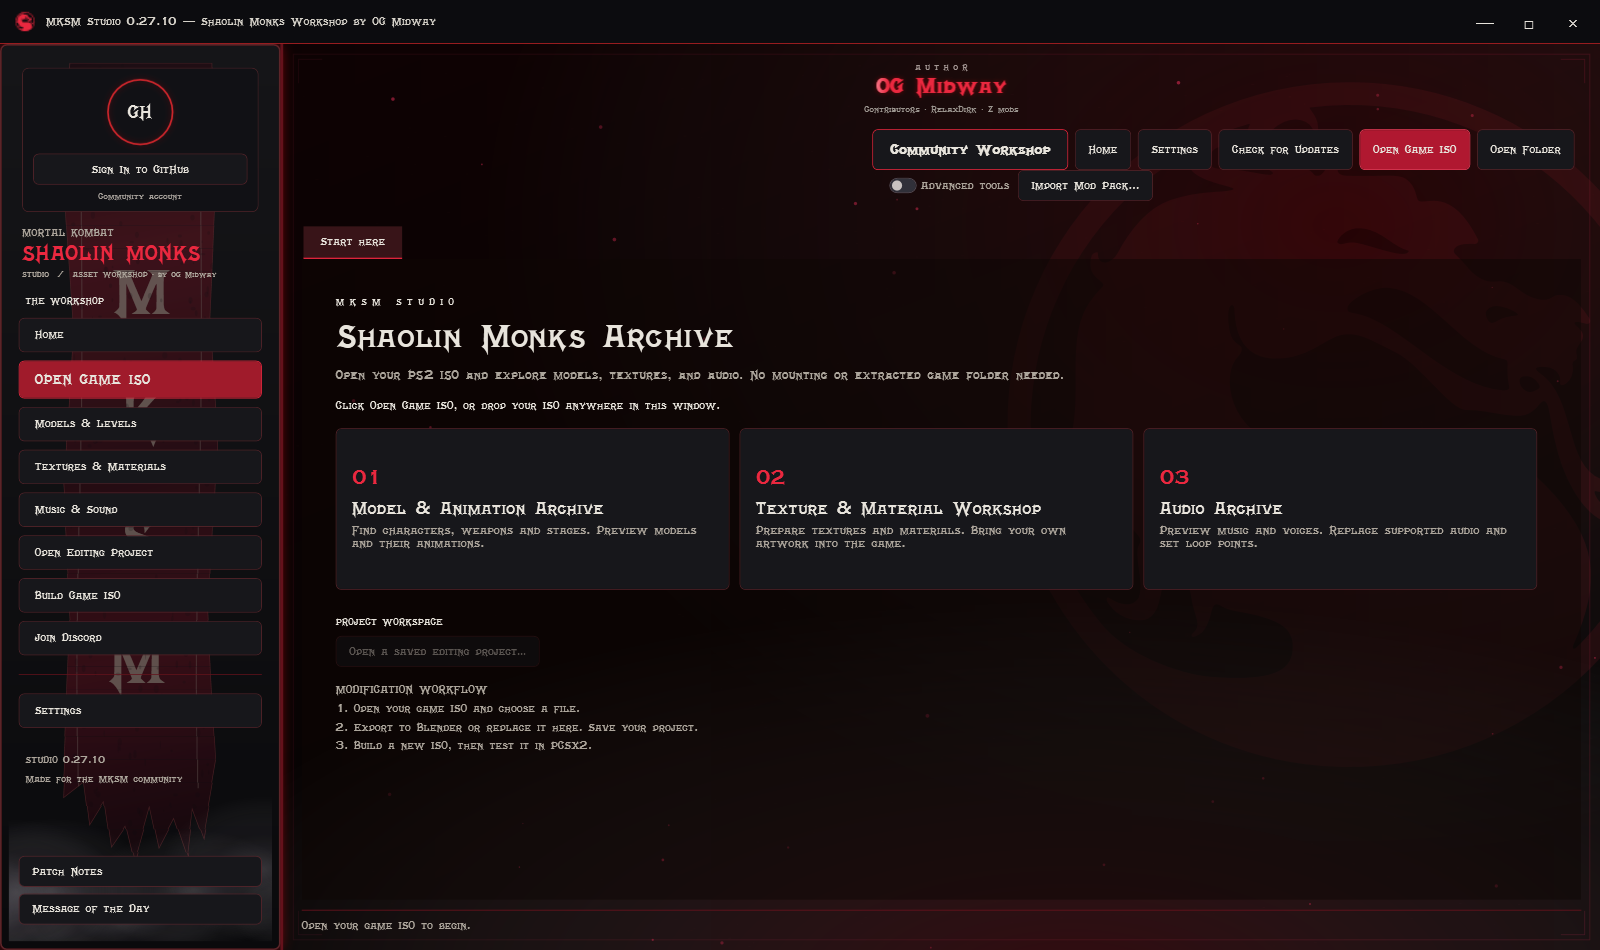
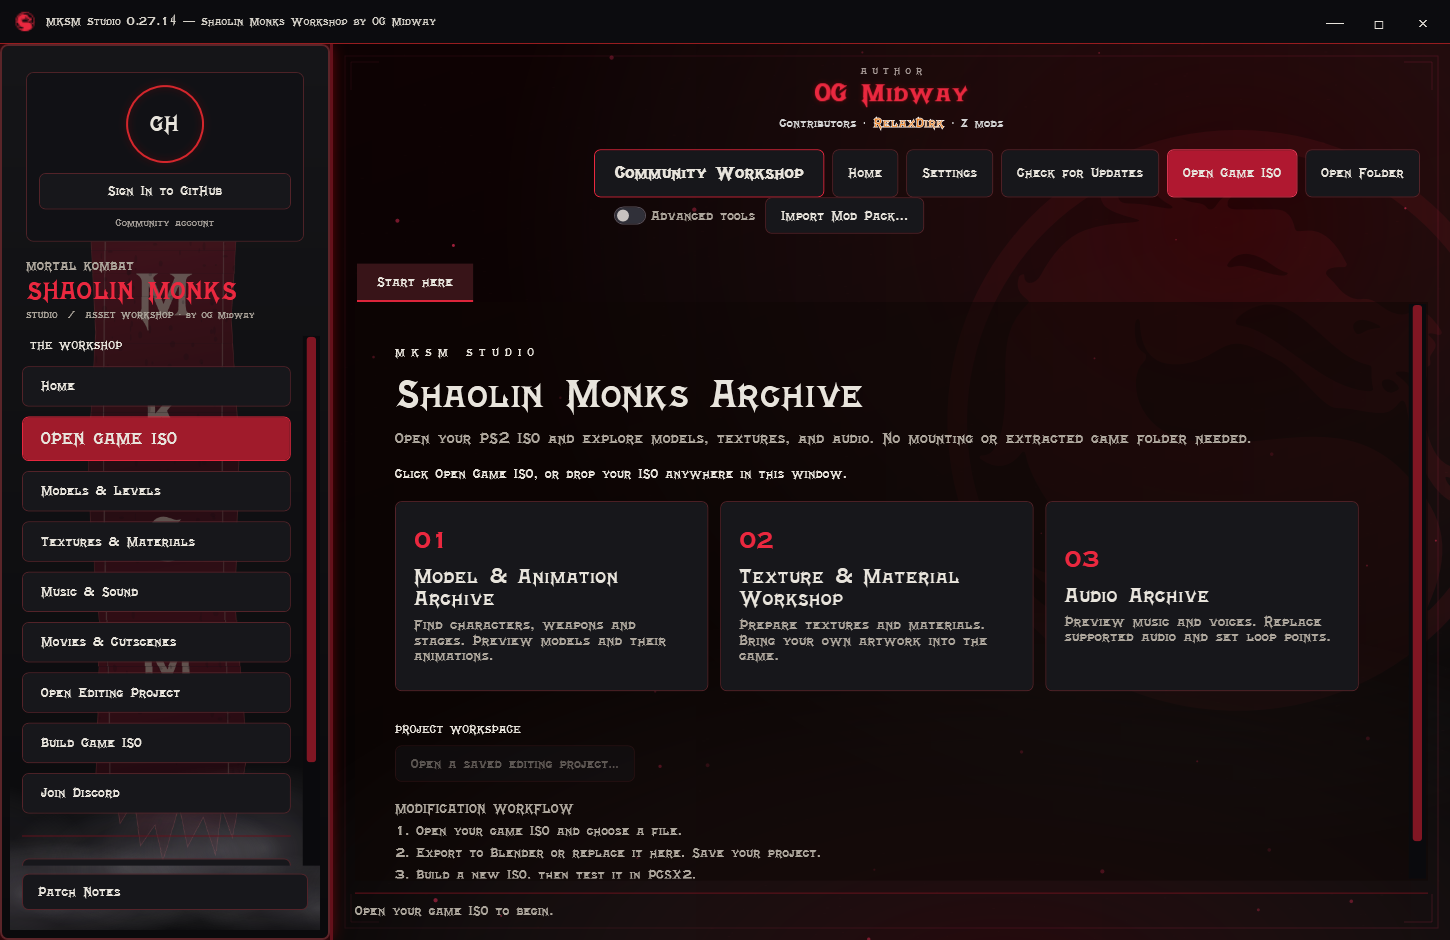
Prepare Studio 0.27.14 workshop stability and faster announcements

Changed region(s): [[0.0, 0.0, 1.0, 1.0], [0.4034, 0.0617, 0.9931, 0.2468], [0.8379, 0.3085, 0.9, 0.3394]]

diff --git a/docs/SETTINGS.md b/docs/SETTINGS.md
@@ -1,3 +1,11 @@
+## Studio 0.27.14
+
+- Fixed blank Workshop cards after resizing, scrolling and refreshing. Divider dragging previews the new width; cards reflow when released. The model camera stays steady.
+- Workshop checks for new listings in the background after opening it: every 30 seconds signed in, every 2 minutes as a guest. Failed requests retain the library and back off. Selection, scroll anchor and unchanged previews survive refresh. Download totals refresh separately every 5 minutes, or on manual Refresh.
+- Announcements check at startup, on returning to the app and every 10 seconds. Publishing updates the publisher's view immediately. GitHub caching and network conditions can still delay other clients; older Studio versions retain their old intervals. Messages remain once-per-publication and can be reopened.
+- Background SFD/movie is off by default, including a one-time reset of the old default. The dragon and particles remain. Enable video in Settings if desired. Disabled media releases its decoder; muted menu music is not opened.
+- Character replacement adds **Original head / hat / attachments…**. Explicitly hide unwanted original rigid parts while retaining skeleton and skinned surfaces. Selection persists in GLB/package exports and can be changed. Review the preview and test in game; this does not claim to fix every head texture or unsupported attachment.
+
 # Settings and the new home screen
 
 [Home](../README.md) · [Updates](UPDATES_AND_HELP.md)
@@ -20,7 +28,7 @@
 
 ## Opening movie
 
-The converted opening movie is included and starts automatically on a fresh launch. A missing previous movie path falls back to that bundled default. You can still prepare `Front/Movies/opening.sfd` from your own game folder or ISO. Conversion uses a local FFmpeg executable and runs outside the UI thread. If FFmpeg is missing, use **Choose FFmpeg converter**, then **Choose background movie** and select the SFD. You can also choose an MP4 or WMV directly. [FFmpeg's official download page](https://ffmpeg.org/download.html) links Windows builds. FFmpeg is a separate optional dependency, not included in Studio's EXE or updater.
+The converted opening movie is included but disabled by default. Enable background video explicitly to play it. A missing previous movie path falls back to that bundled default. You can still prepare `Front/Movies/opening.sfd` from your own game folder or ISO. Conversion uses a local FFmpeg executable and runs outside the UI thread. If FFmpeg is missing, use **Choose FFmpeg converter**, then **Choose background movie** and select the SFD. You can also choose an MP4 or WMV directly. [FFmpeg's official download page](https://ffmpeg.org/download.html) links Windows builds. FFmpeg is a separate optional dependency, not included in Studio's EXE or updater.
 
 Converted video is cached locally. The original game file stays unchanged. Choose **Opening movie audio** to hear its soundtrack, including with the video picture disabled. Only one background audio source plays at a time. Playback depends on Windows media support; if video cannot play, the dragon background remains usable.
 

diff --git a/docs/COMMUNITY_WORKSHOP.md b/docs/COMMUNITY_WORKSHOP.md
@@ -1,3 +1,11 @@
+## Studio 0.27.14
+
+- Fixed blank Workshop cards after resizing, scrolling and refreshing. Divider dragging previews the new width; cards reflow when released. The model camera stays steady.
+- Workshop checks for new listings in the background after opening it: every 30 seconds signed in, every 2 minutes as a guest. Failed requests retain the library and back off. Selection, scroll anchor and unchanged previews survive refresh. Download totals refresh separately every 5 minutes, or on manual Refresh.
+- Announcements check at startup, on returning to the app and every 10 seconds. Publishing updates the publisher's view immediately. GitHub caching and network conditions can still delay other clients; older Studio versions retain their old intervals. Messages remain once-per-publication and can be reopened.
+- Background SFD/movie is off by default, including a one-time reset of the old default. The dragon and particles remain. Enable video in Settings if desired. Disabled media releases its decoder; muted menu music is not opened.
+- Character replacement adds **Original head / hat / attachments…**. Explicitly hide unwanted original rigid parts while retaining skeleton and skinned surfaces. Selection persists in GLB/package exports and can be changed. Review the preview and test in game; this does not claim to fix every head texture or unsupported attachment.
+
 # Community Workshop
 
 [Home](../README.md) · [Characters](CHARACTER_START_HERE.md)
@@ -59,7 +67,7 @@ Use **Create / Upload Mod Pack** to share several mapped replacements. With your
 
 In the private source build, OG Midway's verified owner account can use **Publish Announcement** in the sidebar. Choose Message of the Day or Patch Notes, type a title and message, preview it, then **Publish to All Builds**. Other accounts cannot publish. The public build has no publisher control.
 
-New messages display once on the next launch, or within two minutes while the app is active and no editing dialog is open. Close the message after reading; its ID is saved. The sidebar button remains available to review it. Offline checks never block editing. A newer publication replaces the current announcement and gets a new notification ID.
+New messages display once on the next launch, or normally within 10 seconds (network and GitHub caching can delay delivery) while the app is active and no editing dialog is open. Close the message after reading; its ID is saved. The sidebar button remains available to review it. Offline checks never block editing. A newer publication replaces the current announcement and gets a new notification ID.
 
 Use arrow keys to scroll message text, Enter or Space on Continue to dismiss, and Esc to go back. Settings uses Tab/Shift+Tab to move, Space to activate the focused control, and Enter to save.
 

diff --git a/README.md b/README.md
@@ -34,7 +34,9 @@ You do not need to mount or unpack the ISO to begin. You do need your own game f
 
 This is an independent, experimental modding tool. The best-tested workflows use the researched **USA PS2 revision**. Support for one resource or revision does not establish support for every version of the game.
 
-## 2. Current release: 0.27.13
+## 2. Current release: 0.27.14
+
+**Workshop stability and faster announcements.** Background listing checks retain your selection and preview; divider resizing no longer continually resets the model camera. [Patch notes](CHANGELOG.md) · [Windows, handheld and experimental Winlator options](docs/PLATFORMS.md).
 
 **New: saved-project Workshop sharing and experimental native-size SFD movie import.** Open Movies & Cutscenes, export the original movie, check an already-created replacement SFD, then stage/save/build it. FFmpeg and ffprobe are required for import checks. Native game playback remains unverified. [Movie guide](docs/MOVIES.md).
 
@@ -42,7 +44,7 @@ Clean red-and-black interface, integrated title bar, GitHub avatar, refreshed Wo
 
 **Community Workshop:** opens inside the main Studio workspace. Use Home to return to the start page; returning to Workshop preserves search, sorting, selection and scroll position. Browse character replacements, download their files, follow updates for version comparisons on refresh, and publish your own native character packages through GitHub. Creator uploads appear without an approval queue. OGmidway's authenticated owner account can remove any listing; other creators manage only their own. [Workshop guide](docs/COMMUNITY_WORKSHOP.md).
 
-**Opening movie included:** the converted opening movie is bundled and starts on first launch. The default movie needs no ISO extraction or FFmpeg. Saved off/volume choices are preserved; selecting another movie previews it immediately.
+**Background movie is off by default:** the dragon and particles remain visible. Version 0.27.14 turns the previous video default off once; you can enable it again in Settings. Disabled video releases its decoder. The optional bundled movie needs no ISO extraction or FFmpeg.
 
 **An archive-focused MKSM interface:** aged-metal frames, bundled MK4 title lettering, responsive archive cards and automatic scaling on large windows. Home is available from the left navigation and the library. Instructions and file details keep a readable standard font.
 

diff --git a/CHANGELOG.md b/CHANGELOG.md
@@ -1,3 +1,17 @@
+# MKSM Studio 0.27.14 — Workshop stability and faster announcements
+
+- Fixed blank Workshop cards after resizing, scrolling and refreshing. Divider dragging previews the new width; cards reflow when released. The model camera stays steady.
+- Workshop checks for new listings in the background after opening it: every 30 seconds signed in, every 2 minutes as a guest. Failed requests retain the library and back off. Selection, scroll anchor and unchanged previews survive refresh. Download totals refresh separately every 5 minutes, or on manual Refresh.
+- Announcements check at startup, on returning to the app and every 10 seconds. Publishing updates the publisher's view immediately. GitHub caching and network conditions can still delay other clients; older Studio versions retain their old intervals. Messages remain once-per-publication and can be reopened.
+- Background SFD/movie is off by default, including a one-time reset of the old default. The dragon and particles remain. Enable video in Settings if desired. Disabled media releases its decoder; muted menu music is not opened.
+- Character replacement adds **Original head / hat / attachments…**. Explicitly hide unwanted original rigid parts while retaining skeleton and skinned surfaces. Selection persists in GLB/package exports and can be changed. Review the preview and test in game; this does not claim to fix every head texture or unsupported attachment.
+- Separate experimental extracted Windows x64 package and low-power/software-rendering launchers for portable/Winlator testing. Windows handhelds use the Windows build. No native Android build; Winlator/ARM compatibility and performance are unverified.
+- Public and private-source updates retain separate signed channels. Blender bridge is unchanged.
+
+Validation: both builds compile; 140 resize/refresh cycles with 2,000 listings; shrinking/empty lists; unchanged preview retention; mocked live polling, no overlapping fetch, offline retention/backoff; native Scorpion attachment suppression/restoration, skeleton preservation and saved-package roundtrip; media defaults and explicit opt-in. No new in-game compatibility claim.
+
+---
+
 # MKSM Studio 0.27.13 — Experimental SFD Movie Import
 
 - **Movies & Cutscenes:** inventory and export the original SFD movies directly from your ISO.

diff --git a/docs/PLATFORMS.md b/docs/PLATFORMS.md
@@ -1,0 +1,15 @@
+# Choose your download
+
+| Device | Download | Status |
+|---|---|---|
+| Windows x64 desktop/laptop | `MKSM-Studio-0.27.14-win-x64.zip` or EXE | Primary Windows build |
+| Windows x64 handheld | Same Windows build; use Settings > Low-Power Visuals | Desktop interface; keyboard/mouse or equivalent input needed |
+| Android with Winlator | `MKSM-Studio-0.27.14-portable-experimental-win-x64.zip` | Experimental Windows compatibility test, **not verified on Android** |
+| Windows ARM | x64 build through Windows emulation | Untested |
+| Native Android/iOS/Linux | None | No native build |
+
+Extract the entire portable ZIP into a writable folder. Start with `Start Low Power.cmd`. If graphics fail, try `Start Software Rendering.cmd`; software rendering may be slower. `Start Studio.cmd` uses your saved preferences. Portable settings live beside the app in UserData. Always use a launcher; after an automatic update relaunch, close and reopen through it to retain the portable profile.
+
+Low Power disables background video, sound, fog and glow and selects 15 FPS particles. Normal Settings can disable particles entirely. The extracted package includes the Windows .NET runtime; it does not remove WPF/Windows requirements. Winlator version, Android device, GPU driver and available memory can affect whether it starts. No performance or compatibility guarantee is established.
+
+Use the private source ZIP only if invited; it includes its own Windows application and updater. Do not mix private and public executables.

diff --git a/docs/MODELS_AND_BLENDER.md b/docs/MODELS_AND_BLENDER.md
@@ -117,3 +117,8 @@ This workflow imports new texture artwork and UV mapping; it does not provide ge
 ## Weapons and rigid objects
 
 Use **Import weapon / object…** for supported unskinned type-0 models. Blender Bridge **0.23 and later** has **Save Weapon / Object for Studio**. This path can rebuild topology without a character armature, or copy an existing game model and its textures. See [Weapons and objects](WEAPONS_AND_OBJECTS.md) for the 0443-over-0121 workflow and current limits.
+
+
+## Original attachments in 0.27.14
+
+In the replacement review, choose **Original head / hat / attachments…**. Check only original rigid parts that your new mesh replaces. Leave required weapons and other parts unchecked. The choice persists in exported packages. Preview and test in game; unsupported/skinned attachments are not automatically removed.
